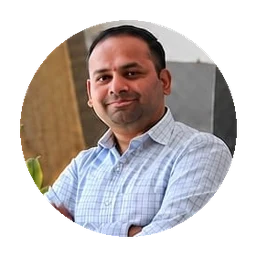
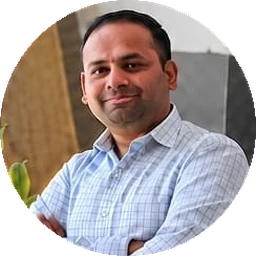
add director card, wellbeing photo fix

diff --git a/people.html b/people.html
@@ -122,6 +122,12 @@
 
     
 <div class="blocks">
+    <article class="block director">
+      <div class="block-people single">
+        <article class="pcard xl director-card"><img src="assets/img/smp/director.webp" alt="Prof. Rajiv Prakash" loading="lazy"><strong>Prof. Rajiv Prakash</strong><small>Director, IIT Bhilai</small><a class="p-mail" href="mailto:director@iitbhilai.ac.in"><svg class="ico"><use href="#i-mail"/></svg>director<wbr>@iitbhilai.ac.in</a></article>
+      </div>
+    </article>
+
     <article class="block dean">
       <div class="block-people single">
         <article class="pcard xl key"><img src="assets/img/people/patra.webp" alt="Dr. Sudhanwa Patra" loading="lazy"><strong>Dr. Sudhanwa Patra</strong><small>Faculty-in-Charge, Dean of Student Affairs</small><a class="p-mail" href="mailto:dosa@iitbhilai.ac.in"><svg class="ico"><use href="#i-mail"/></svg>dosa<wbr>@iitbhilai.ac.in</a></article>

diff --git a/assets/css/style.css b/assets/css/style.css
@@ -1142,3 +1142,9 @@ strong,small,p,li,dt,dd,h1,h2,h3,h4,h5,h6,blockquote,figcaption,td,th{overflow-w
   .well-links .btn{justify-content:center;font-size:.82rem}
 }
 
+.block.director .director-card{width:440px;padding:30px 24px 26px}
+.block.director .director-card img{width:180px;height:180px}
+.block.director .director-card strong{font-size:1.45rem}
+
+@media (max-width:560px){.block.director .director-card{width:100%}}
+
